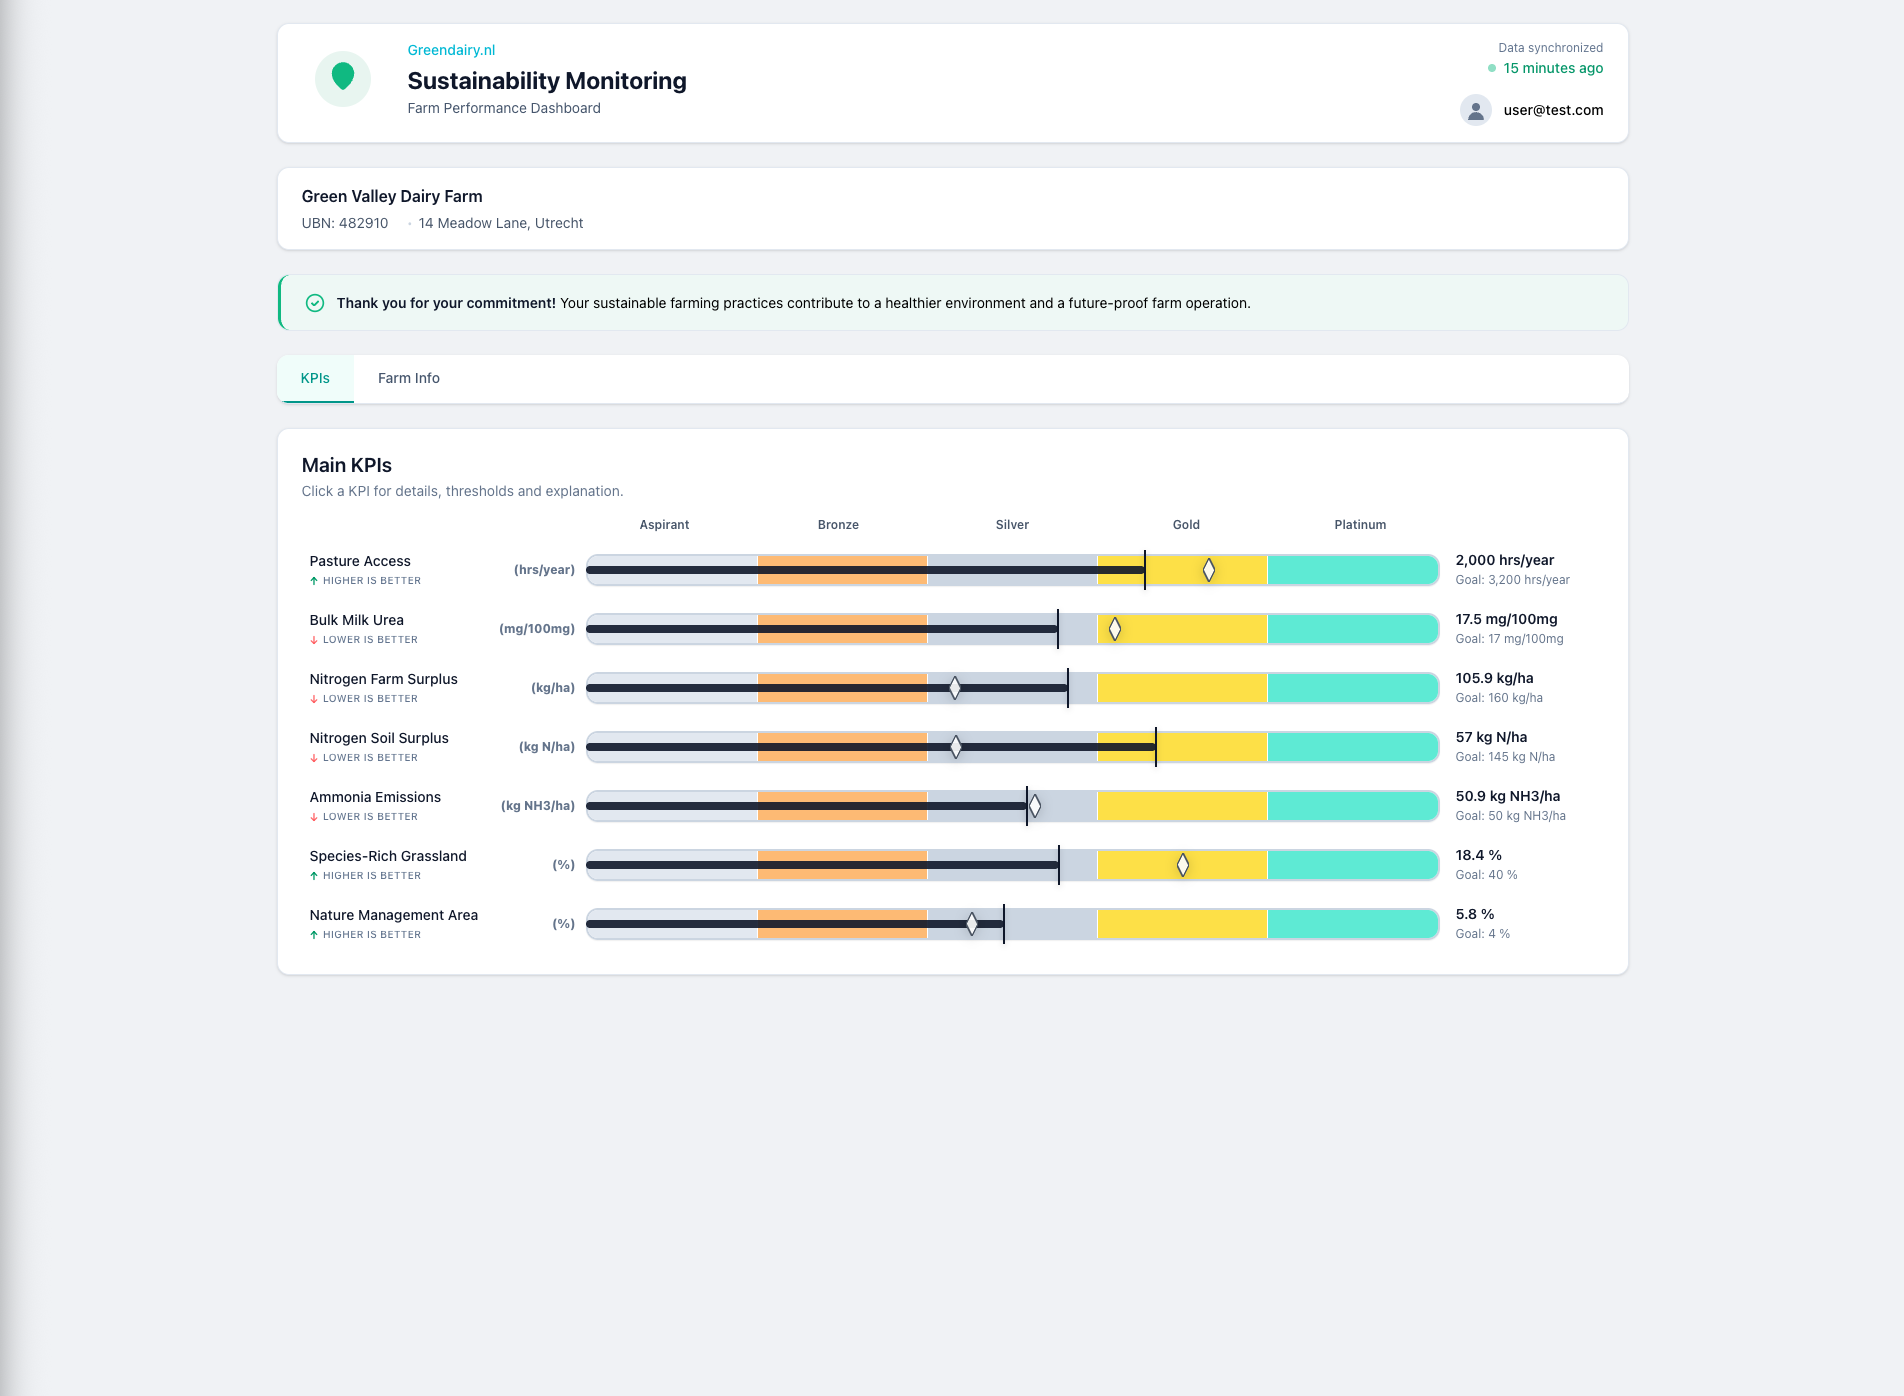
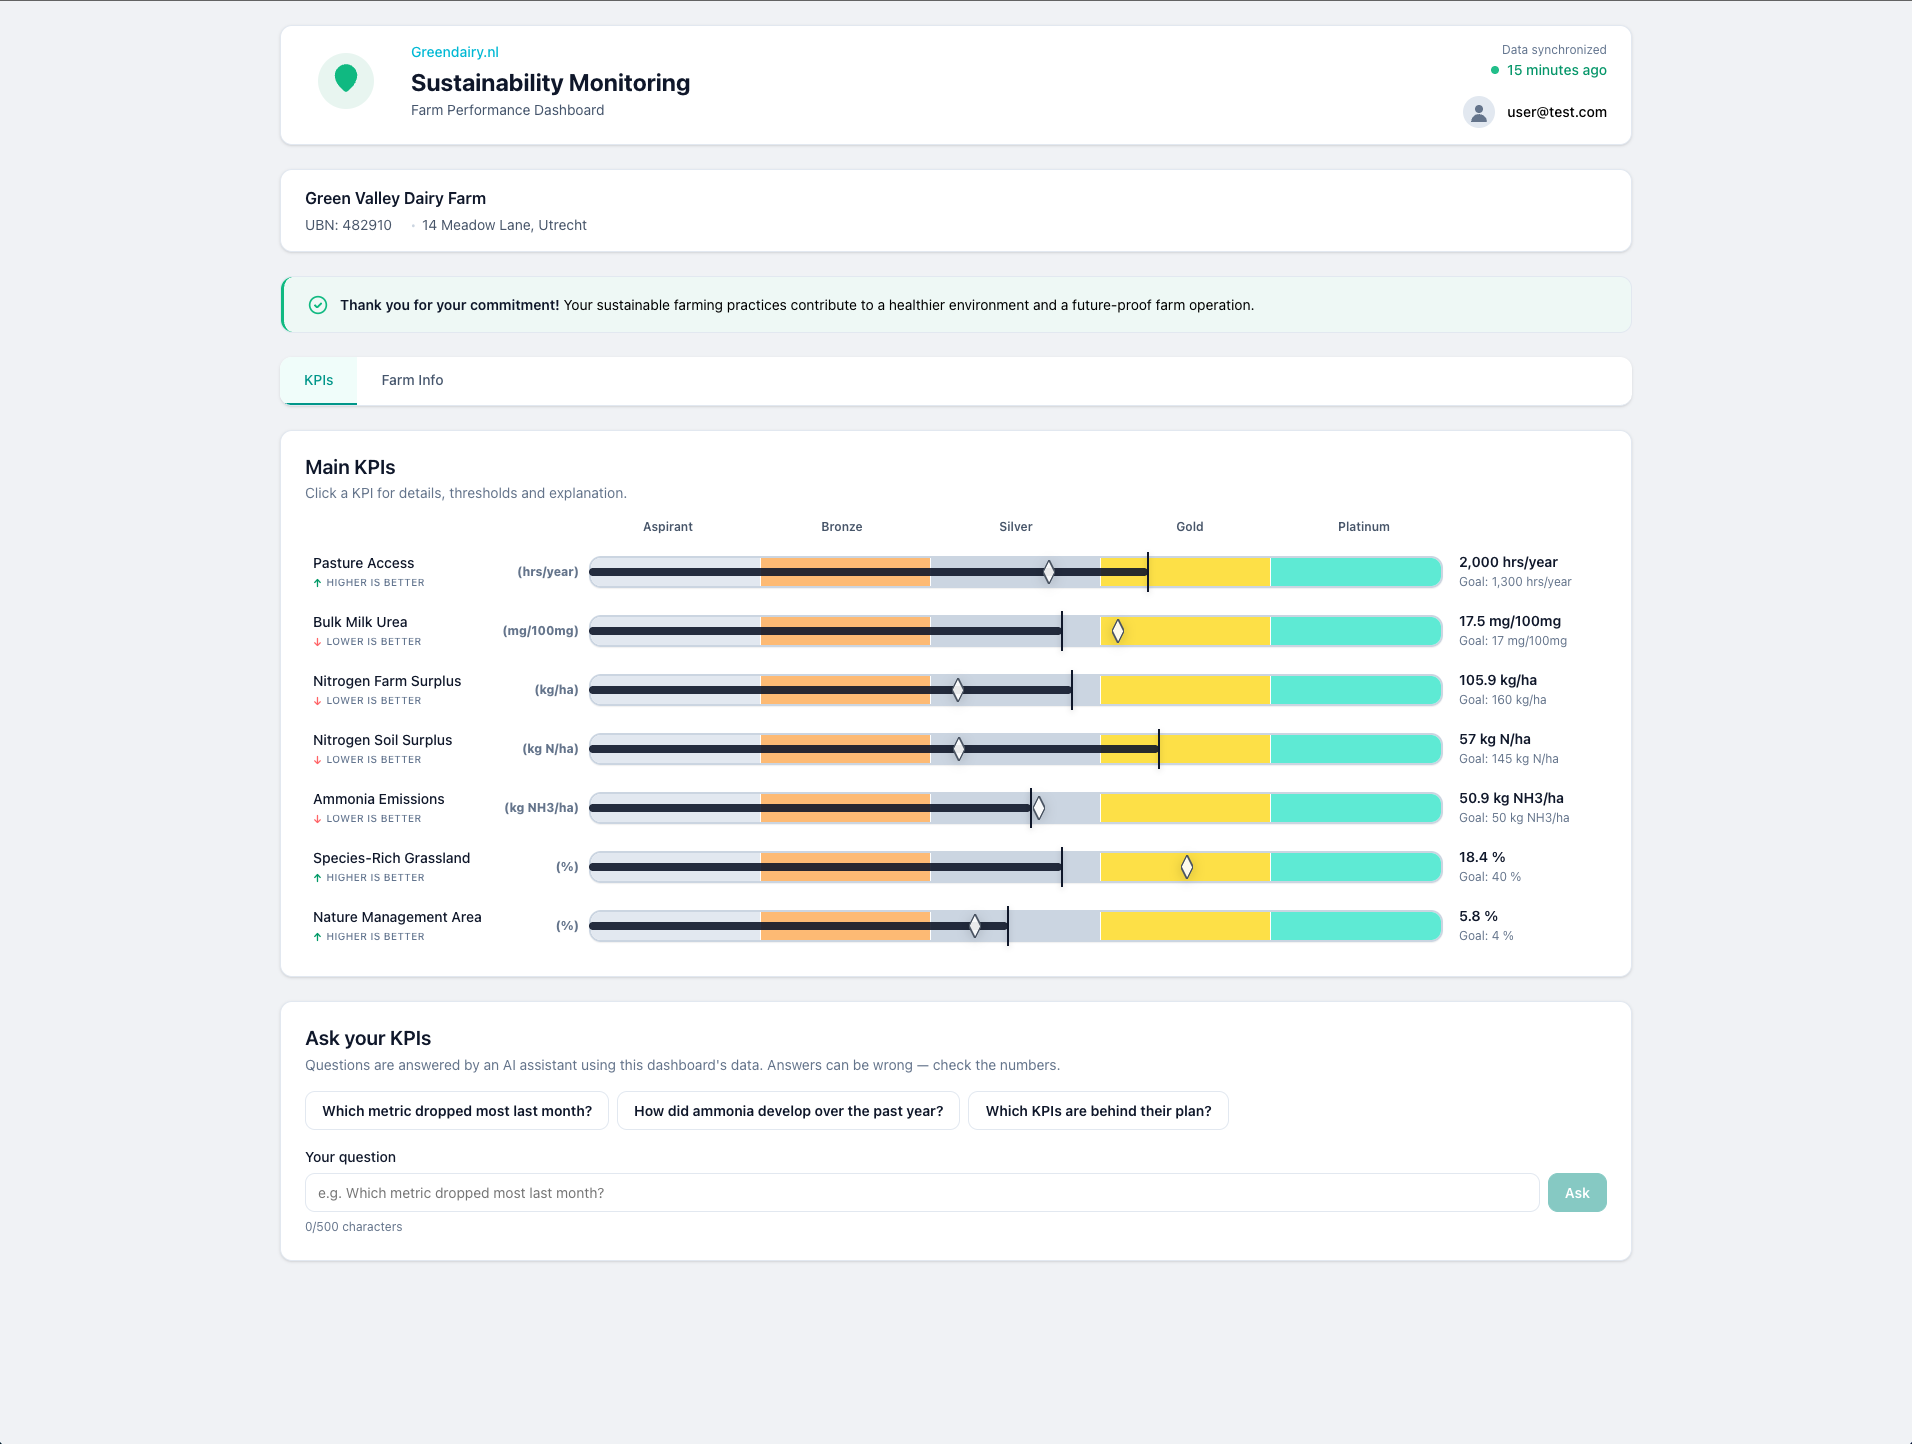
docs(readme): update screenshot with Ask your KPIs panel

diff --git a/README.md b/README.md
@@ -26,7 +26,7 @@ A sustainability KPI dashboard for agricultural farms, built to demonstrate cust
 
 ## Screenshot
 
-![Dashboard screenshot](./public/Screenshot.png)
+![Dashboard with KPI bullet charts and the Ask your KPIs assistant](./public/Screenshot.png)
 
 ---
 
